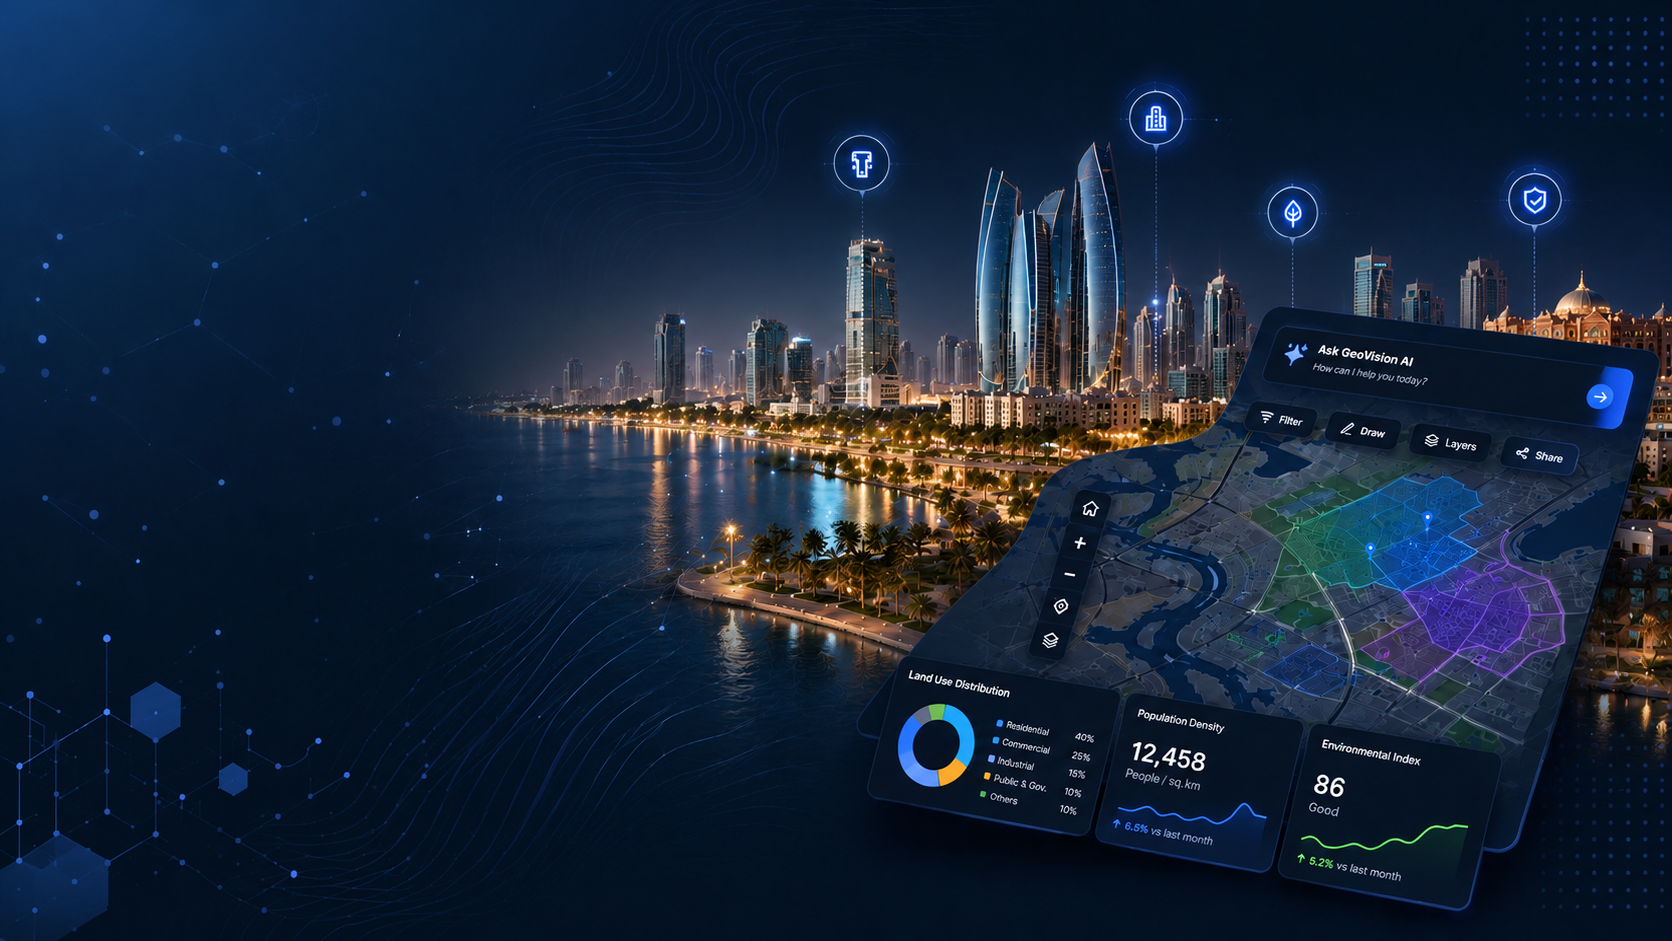
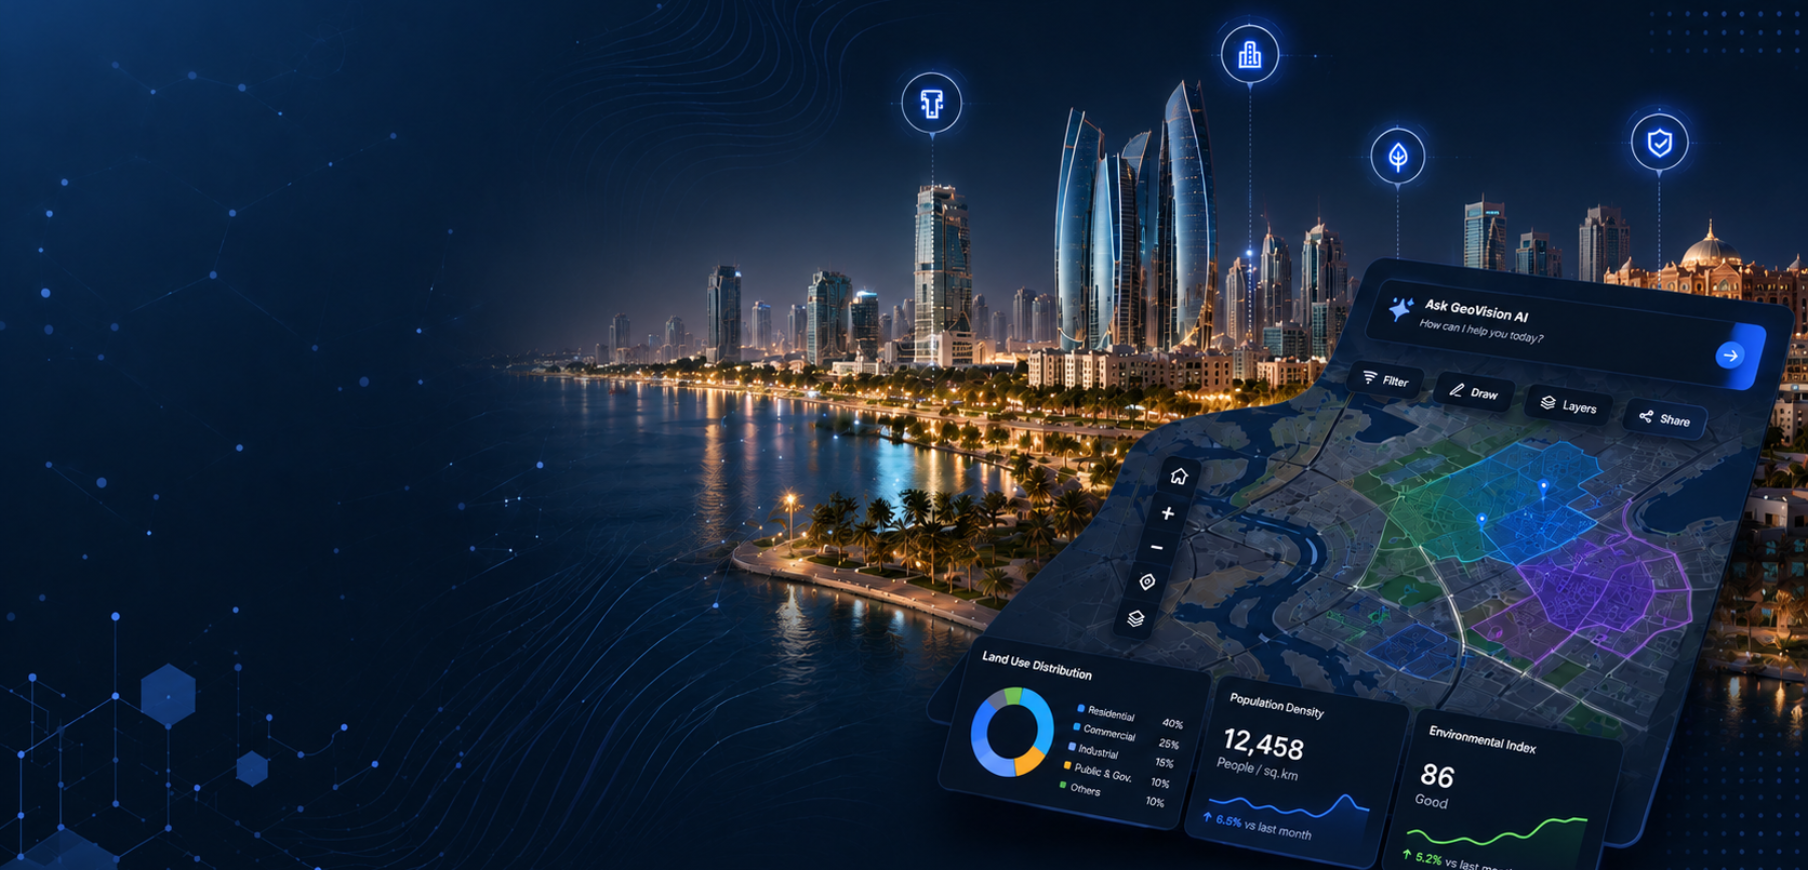
Trigger Vercel deployment

diff --git a/src/utils/timeThemeUtils.ts b/src/utils/timeThemeUtils.ts
@@ -30,7 +30,7 @@ export const TIME_THEMES: Record<TimeThemeId, TimeThemeConfig> = {
     timeRangeEn: '6:00 AM – 11:59 AM',
     timeRangeAr: '6:00 ص – 11:59 ص',
     icon: '🌅',
-    bgImage: 'bg3white.png',
+    bgImage: 'bg4white.png',
     isDarkBase: false,
     overlayGradient: 'linear-gradient(135deg, rgba(255, 243, 200, 0.35) 0%, rgba(186, 230, 253, 0.2) 100%)',
     scrimGradient: 'from-amber-50/95 via-sky-50/85 to-transparent dark:from-[#031B33]/95 dark:via-[#031B33]/85 dark:to-transparent',
@@ -51,7 +51,7 @@ export const TIME_THEMES: Record<TimeThemeId, TimeThemeConfig> = {
     timeRangeEn: '12:00 PM – 4:59 PM',
     timeRangeAr: '12:00 م – 4:59 م',
     icon: '☀',
-    bgImage: 'bg3white.png',
+    bgImage: 'bg4white.png',
     isDarkBase: false,
     overlayGradient: 'linear-gradient(180deg, rgba(56, 189, 248, 0.12) 0%, rgba(255, 255, 255, 0) 100%)',
     scrimGradient: 'from-white/95 via-white/80 to-transparent dark:from-[#041F3B]/95 dark:via-[#041F3B]/85 dark:to-transparent',
@@ -72,7 +72,7 @@ export const TIME_THEMES: Record<TimeThemeId, TimeThemeConfig> = {
     timeRangeEn: '5:00 PM – 7:00 PM',
     timeRangeAr: '5:00 م – 7:00 م',
     icon: '🌇',
-    bgImage: 'bg3white.png',
+    bgImage: 'bg4white.png',
     isDarkBase: false,
     overlayGradient: 'linear-gradient(135deg, rgba(255, 140, 60, 0.15) 0%, rgba(168, 85, 247, 0.08) 100%)',
     scrimGradient: 'from-amber-50/95 via-white/85 to-transparent dark:from-[#041F3B]/95 dark:via-[#041F3B]/85 dark:to-transparent',
@@ -93,7 +93,7 @@ export const TIME_THEMES: Record<TimeThemeId, TimeThemeConfig> = {
     timeRangeEn: '7:01 PM – 10:00 PM',
     timeRangeAr: '7:01 م – 10:00 م',
     icon: '🌆',
-    bgImage: 'bg3dark.png',
+    bgImage: 'bg4dark(3).png',
     isDarkBase: true,
     overlayGradient: 'none',
     scrimGradient: 'from-[#041F3B]/90 via-[#041F3B]/45 to-transparent',
@@ -114,7 +114,7 @@ export const TIME_THEMES: Record<TimeThemeId, TimeThemeConfig> = {
     timeRangeEn: '10:01 PM – 5:59 AM',
     timeRangeAr: '10:01 م – 5:59 ص',
     icon: '🌙',
-    bgImage: 'bg3dark.png',
+    bgImage: 'bg4dark(3).png',
     isDarkBase: true,
     overlayGradient: 'none',
     scrimGradient: 'from-[#041F3B]/90 via-[#041F3B]/45 to-transparent',

diff --git a/src/components/pages/LandingPage.tsx b/src/components/pages/LandingPage.tsx
@@ -134,7 +134,7 @@ export const LandingPage: React.FC = () => {
       
       {/* Dynamic Time-Based Abu Dhabi Background Image Layer */}
       <img
-        src={getAssetUrl(theme === 'dark' ? 'bg3dark.png' : 'bg3white.png')}
+        src={getAssetUrl(activeTheme.bgImage || (theme === 'dark' ? 'bg4dark(3).png' : 'bg4white.png'))}
         alt="GeoVision Abu Dhabi Spatial Canvas"
         className={`absolute inset-0 w-full h-full object-cover object-center transition-all duration-1000 pointer-events-none z-0 opacity-100 ${
           language === 'ar' ? '-scale-x-100' : ''
